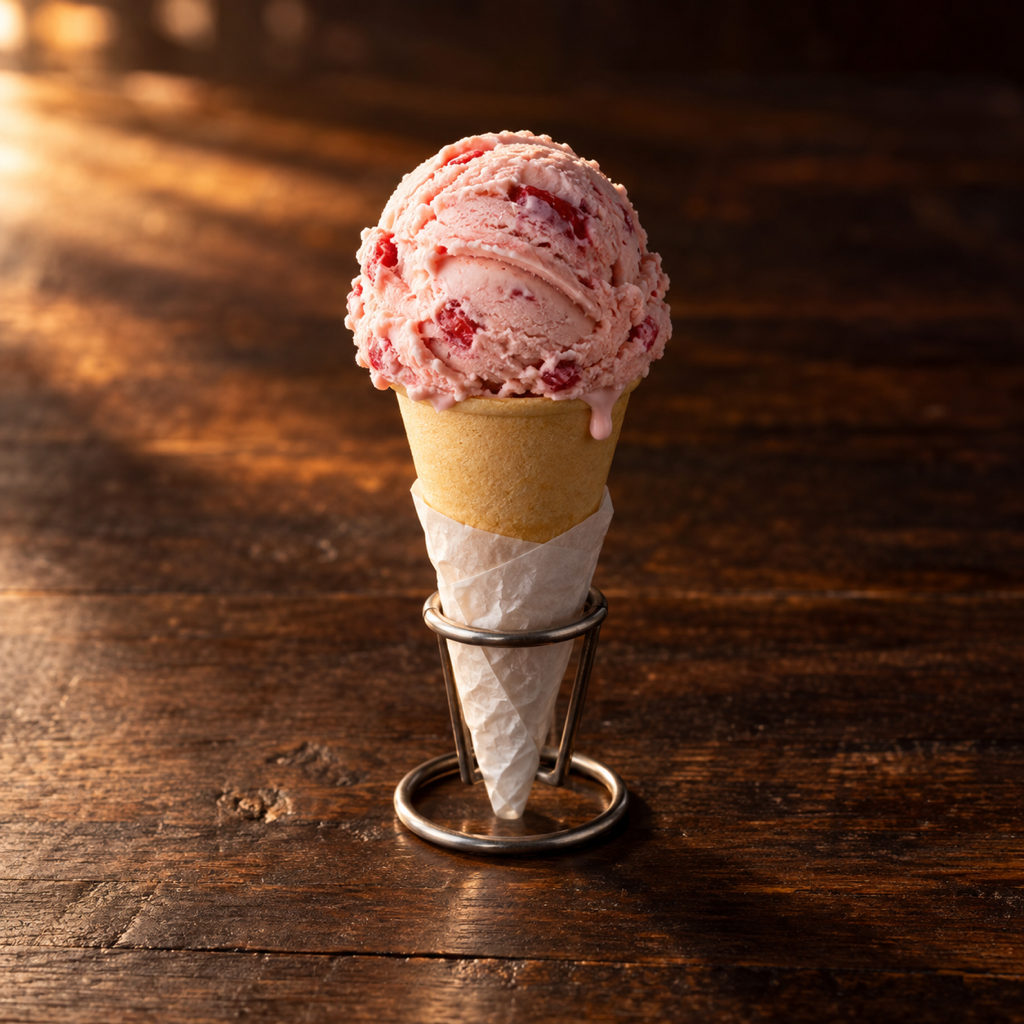
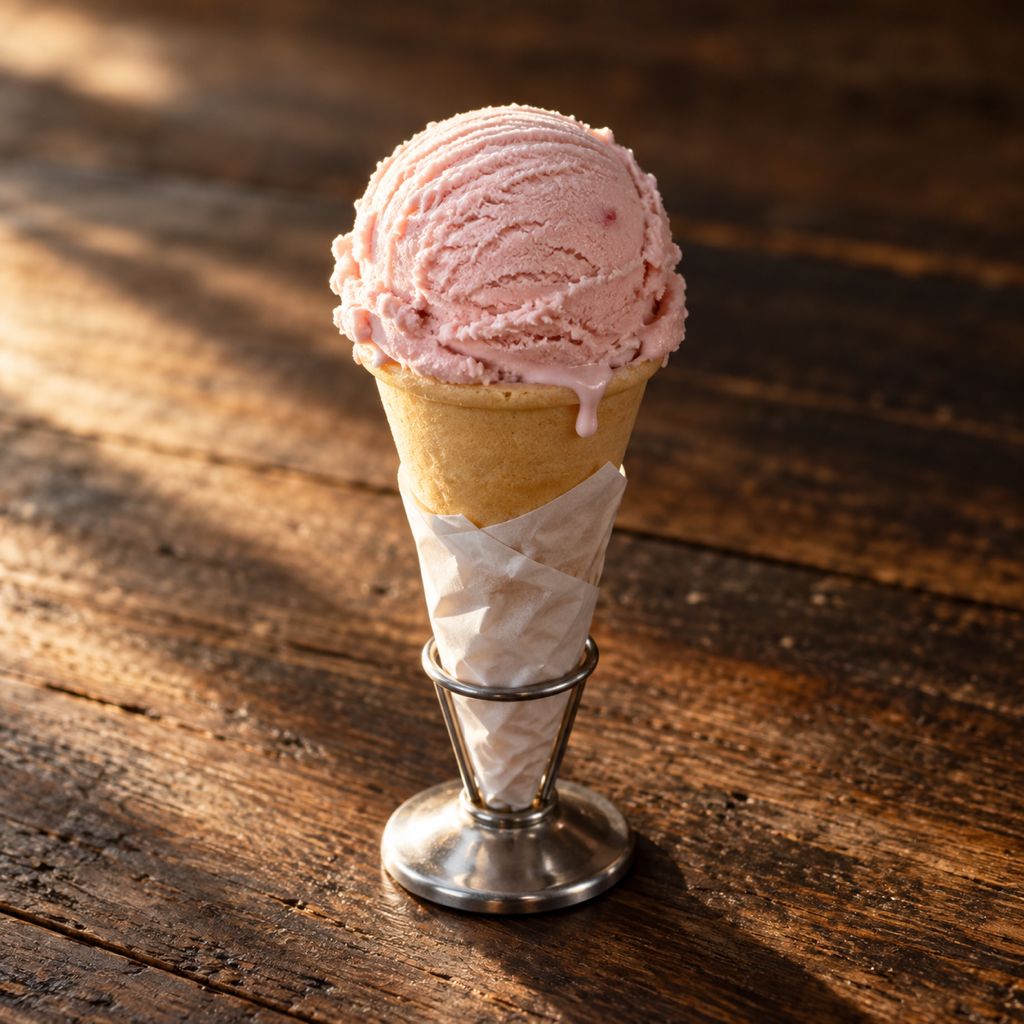
按口吃的东西：unit 字段、每口只算 1/口数的肚子、同一个连着咬不说叠；甜筒十口一条弧线（试吃抓的：count=1 走不到第六口）

diff --git a/snackbox_mcp.py b/snackbox_mcp.py
@@ -342,7 +342,7 @@ def snackbox_look(box: str = "") -> str:
                 out.append("· [%s] %s —— 空格" % (p["id"], p["name"]))
             else:
                 tray = p.get("tray") or p["form"]
-                cnt = "" if p["count"] == 1 else "（还有 %d）" % n
+                cnt = "" if p["count"] == 1 else "（还有 %d %s）" % (n, p.get("unit", "颗"))
                 out.append("· [%s] %s —— %s%s" % (p["id"], p["name"], tray, cnt))
     else:
         for cat, bs in CATEGORIES:
@@ -422,6 +422,8 @@ def snackbox_open() -> list:
             return [HAND["nothing_held"]]
         now = _now()
         overlap, _ = _mouth_stage(st, now)
+        if overlap and st.get("mouth", {}).get("piece") == p["id"] and p.get("unit") == "口":
+            overlap = False   # 同一个东西连着咬，不算叠
         st["remaining"][b["id"]][p["id"]] = max(0, st["remaining"][b["id"]].get(p["id"], 0) - 1)
         st["fed"] = (st["fed"] + [{"t": _iso(now), "box": b["id"], "piece": p["id"]}])[-500:]
         n = int(held.get("n") or 1)

diff --git a/gate.py b/gate.py
@@ -52,7 +52,7 @@ RULES = {"祈使": IMPERATIVE, "buff": BUFF, "人格": PERSONA, "slogan": SLOGAN
 UNFINISHED = "【待舌头】"   # 没过舌头的颗，上架时拒载；起草期只是提醒
 
 PIECE_FIELDS = {"id", "name", "form", "cocoa", "count", "tray", "wrap", "look", "smell",
-                "first_seconds", "melt", "aftertaste", "aftertaste_minutes", "image", "stages", "duds"}
+                "first_seconds", "melt", "aftertaste", "aftertaste_minutes", "image", "stages", "duds", "unit"}   # unit：颗/片/口（一个东西分几口吃，count 就是口数）
 # stages：同一坐吃到第几颗，话不一样（糖炒栗子：第一颗烫、第二颗最好吃、第四颗起跟壳较劲）
 #   [{"from": 1, <覆盖 wrap/look/smell/first_seconds/melt/aftertaste>}]
 # duds：坏果，按概率（黑的、苦的、壳跟肉长在一起）

diff --git a/tools/build_site.py b/tools/build_site.py
@@ -153,7 +153,7 @@ def main():
                     else:
                         groups.append([key, n, n, v])
                 pdir = os.path.join(bdir, p["id"]); os.makedirs(pdir, exist_ok=True)
-                unit = "片" if cat["id"] == "chips" else "颗"
+                unit = p.get("unit") or ("片" if cat["id"] == "chips" else "颗")
                 for gi, (_, a, z, v) in enumerate(groups):
                     label = ("第 %d %s" % (a, unit)) if a == z else ("第 %d–%d %s" % (a, z, unit))
                     nav = ""
